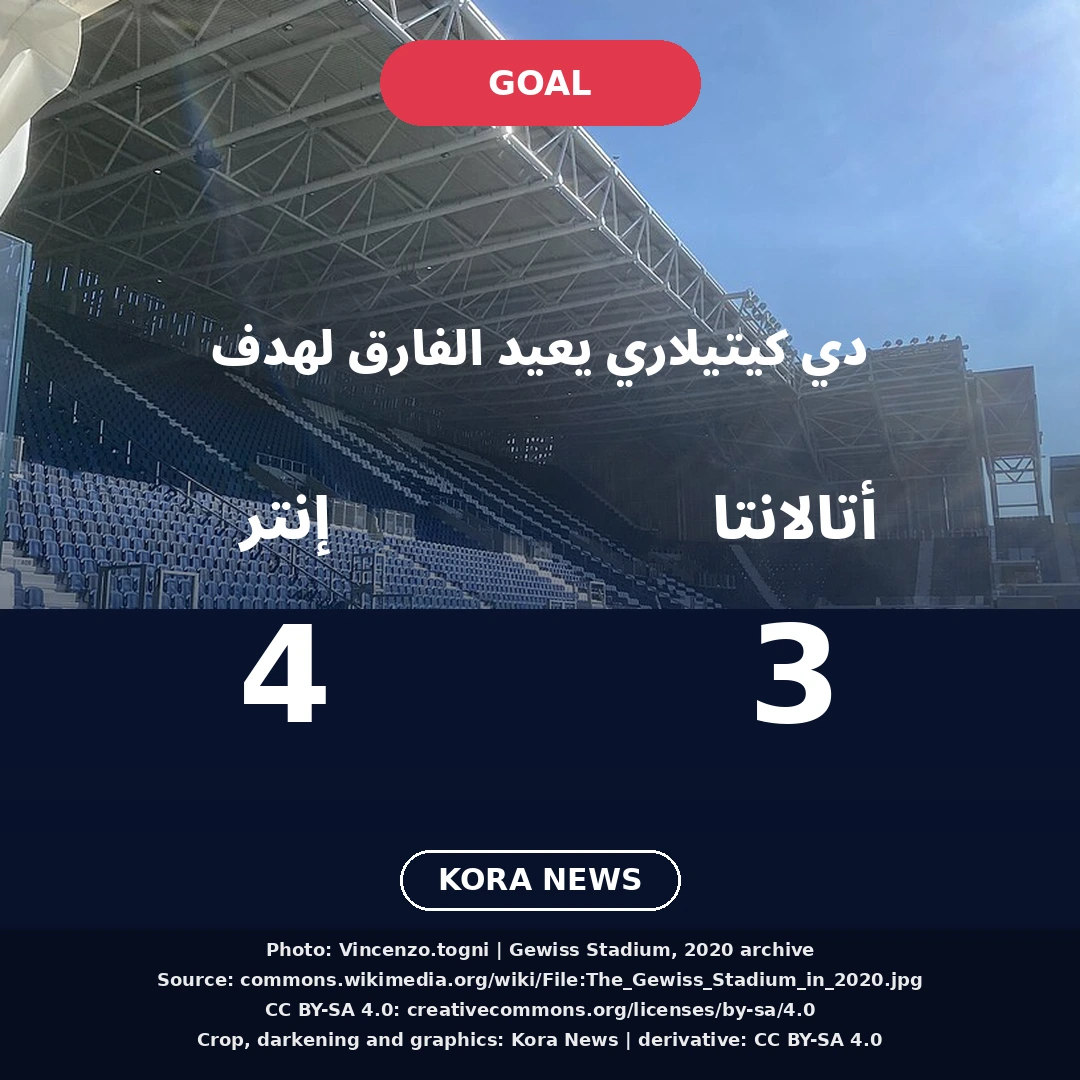
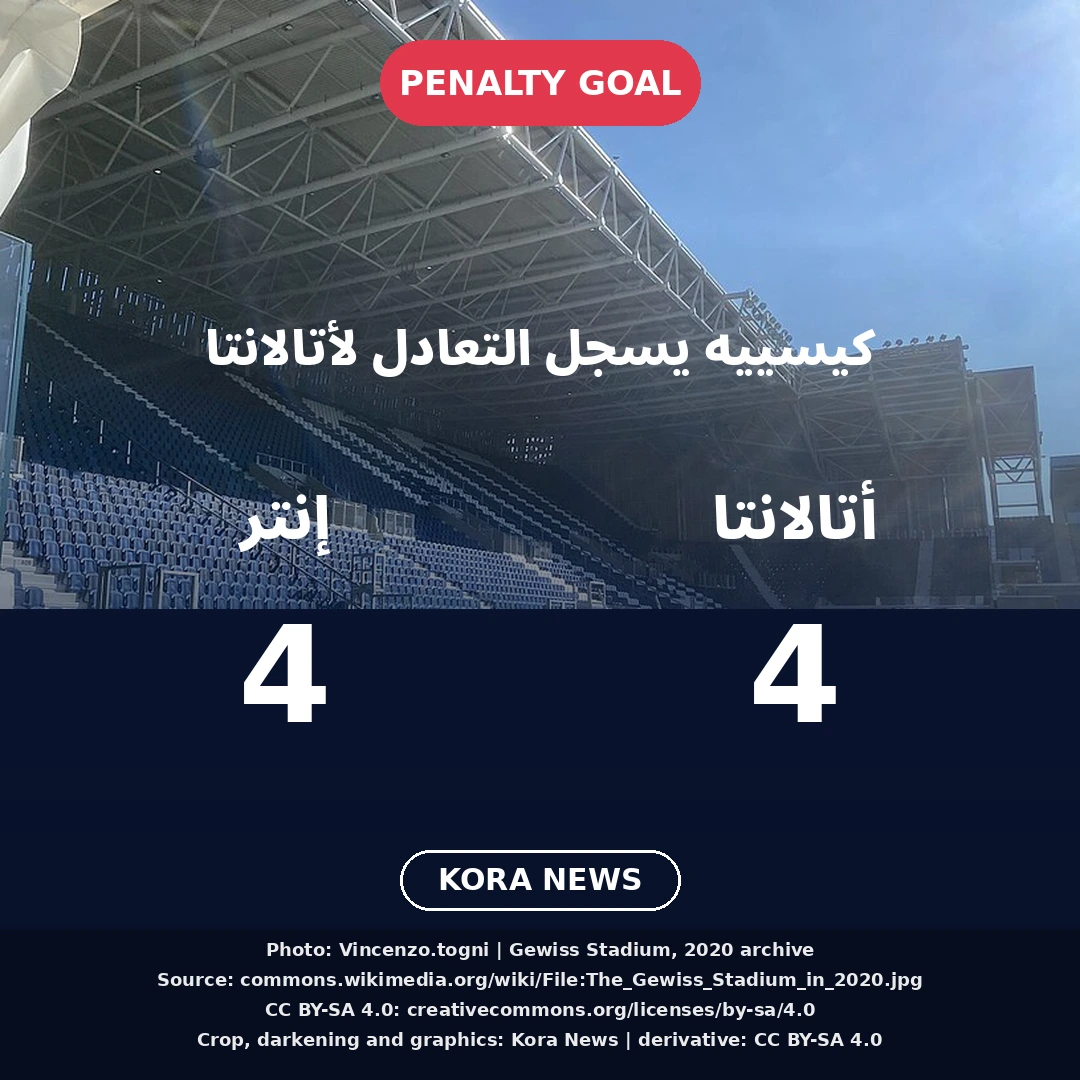
Report Kessie late equalizer in ongoing 4-4 coverage

Changed region(s): [[0.1833, 0.3056, 0.825, 0.3667], [0.3667, 0.0611, 0.6417, 0.0917], [0.7028, 0.55, 0.7639, 0.6722]]

diff --git a/posts/2026-11-22-atalanta-inter-coverage.md b/posts/2026-11-22-atalanta-inter-coverage.md
@@ -1,13 +1,21 @@
 ---
-title: دي كيتيلاري يعيد الفارق إلى هدف بعد ركلة جزاء سوتشيتش لإنتر
-date: 2026-11-22T23:26:00+02:00
+title: كيسييه يسجل التعادل لأتالانتا أمام إنتر من ركلة جزاء في الوقت بدل الضائع
+date: 2026-11-22T23:36:00+02:00
 slug: atalanta-inter-coverage
 category: متابعة المباريات
-excerpt: سوتشيتش يسجل رابع أهداف إنتر من ركلة جزاء في الدقيقة 76، ودي كيتيلاري يرد بهدفه الثاني. أتالانتا بثلاثة أهداف وإنتر بأربعة في لقطة موثقة عند 23:26 بتوقيت القاهرة، وليست نهائية.
+excerpt: فرانك كيسييه يسجل من ركلة جزاء في الدقيقة 90+1 ويعادل النتيجة لأتالانتا أمام إنتر بأربعة أهداف لكل فريق. لقطة موثقة عند 23:36 بتوقيت القاهرة، وليست نهائية.
 image: atalanta-inter-coverage.webp
 ---
 
-## دي كيتيلاري يرد على ركلة جزاء سوتشيتش، تحديث 23:26 بتوقيت القاهرة
+## كيسييه يسجل التعادل من ركلة جزاء، تحديث 23:36 بتوقيت القاهرة
+
+سجل فرانك كيسييه هدف التعادل لأتالانتا من ركلة جزاء في الدقيقة **90+1**، لتصبح النتيجة **أربعة أهداف لكل فريق** أمام ضيفه إنتر، مع استمرار اللعب في الوقت بدل الضائع.
+
+أظهرت [متابعة BBC Sport](https://www.bbc.com/sport/football/live/crq5vgg8pp48t) و[صفحة المباراة في ESPN](https://www.espn.com/soccer/match/_/gameId/401875001) التعادل وهدف كيسييه من ركلة جزاء، في مراجعة امتدت من **23:35 إلى 23:36 بتوقيت القاهرة يوم الأحد 22 نوفمبر 2026**.
+
+**هذه لقطة أثناء اللعب، وليست النتيجة النهائية.** أتالانتا صاحب الأرض ورصيده أربعة أهداف، وإنتر الضيف ورصيده أربعة أهداف. المراحل السابقة أدناه مؤرخة، ولا تصف النتيجة بعد هدف التعادل.
+
+## دي كيتيلاري يرد على ركلة جزاء سوتشيتش، تحديث سابق عند 23:26 بتوقيت القاهرة
 
 سجل بيتار سوتشيتش الهدف الرابع لإنتر من ركلة جزاء في الدقيقة **76**، قبل أن يرد شارل دي كيتيلاري بهدفه الثاني في المباراة، ليعيد الفارق إلى هدف واحد مع تقدم إنتر **بأربعة أهداف مقابل ثلاثة** أمام مضيفه أتالانتا.
 
